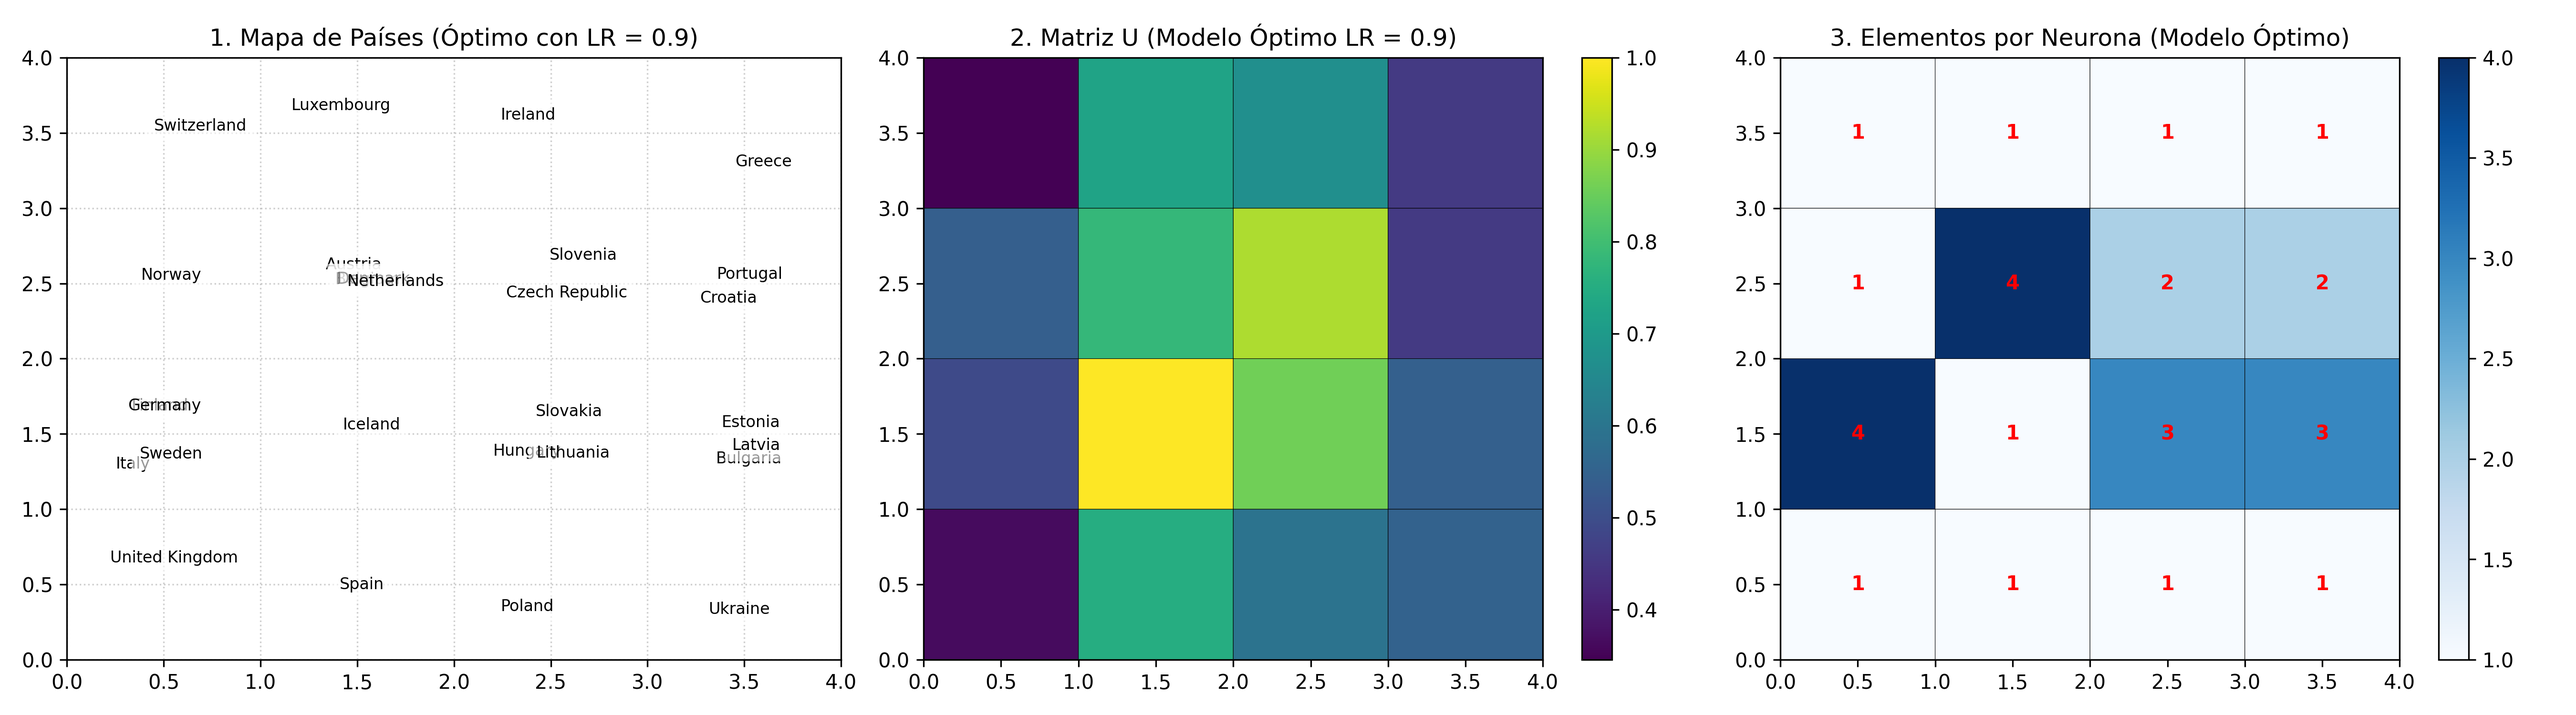
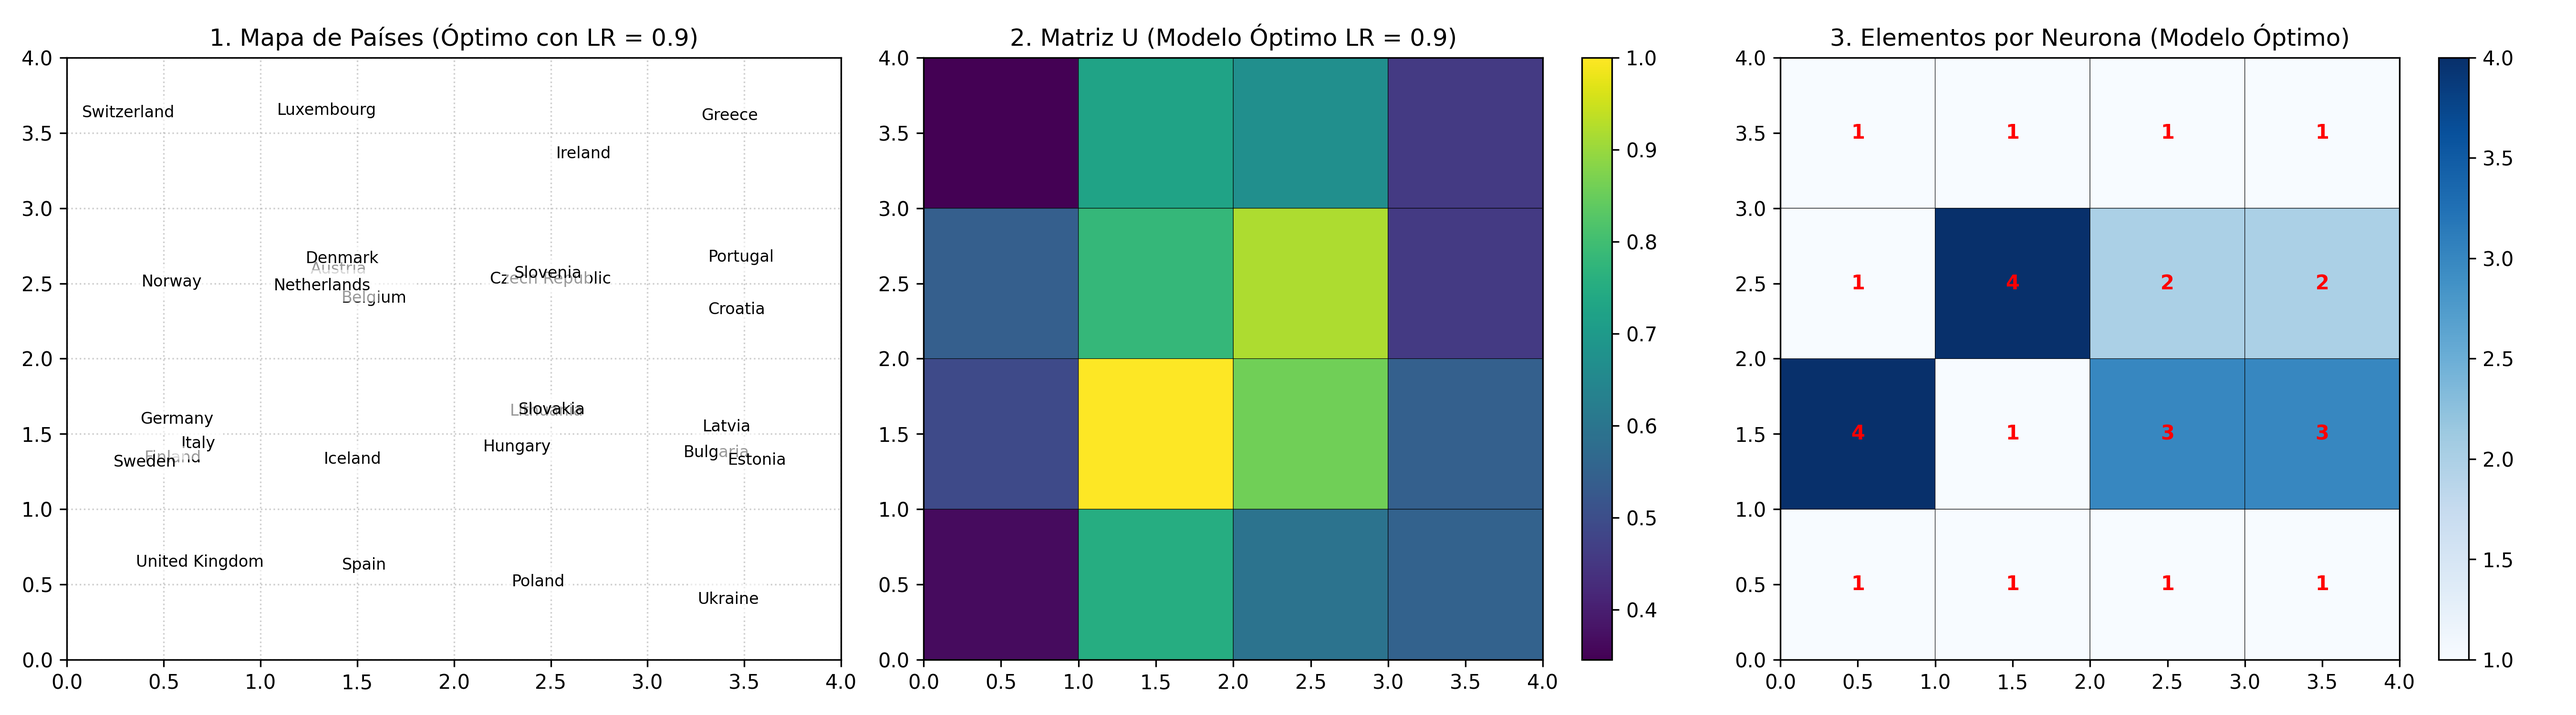
LR gra[hs added

diff --git a/kohonen/kohonen.py b/kohonen/kohonen.py
@@ -23,7 +23,6 @@ num_paises = len(data_scaled)
 # ==========================================
 # 2. Configuración Fija y Grid Search de LR
 # ==========================================
-# Fijamos las dimensiones óptimas que elegiste para clustering real
 ROWS, COLS = 4, 4 
 SIGMA_FIJO = 1.0
 ITERACIONES_FIJAS = 2000
@@ -37,7 +36,7 @@ modelos_entrenados = {}
 print(f"Iniciando Grid Search sobre {len(learning_rates)} tasas de aprendizaje distintas (Grilla {ROWS}x{ROWS})...\n")
 
 # ==========================================
-# 3. Bucle de Evaluación Automatizada
+# 3. Bucle de Evaluación Automatizada y Guardado de Gráficos
 # ==========================================
 for lr in learning_rates:
     lr_round = round(lr, 1)
@@ -69,11 +68,47 @@ for lr in learning_rates:
     
     modelos_entrenados[nombre_escenario] = (som, hit_map)
 
+    # --- NUEVO: Generación y guardado del gráfico para CADA Learning Rate ---
+    fig = plt.figure(figsize=(18, 5.5))
+    fig.suptitle(f"Evaluación SOM | Grilla: {ROWS}x{COLS} | Sigma: {SIGMA_FIJO} | Learning Rate (LR): {lr_round} | Iteraciones: {ITERACIONES_FIJAS}", fontsize=14, fontweight='bold')
+
+    # 1. Mapa de Países
+    ax1 = fig.add_subplot(1, 3, 1)
+    ax1.set_title("1. Mapa de Países")
+    ax1.pcolor(np.zeros((ROWS, COLS)), cmap='Greys', edgecolors='k', alpha=0) 
+    for i, x in enumerate(data_scaled):
+        w = som.winner(x)
+        ax1.text(w[0] + 0.5 + np.random.uniform(-0.2, 0.2), w[1] + 0.5 + np.random.uniform(-0.2, 0.2), 
+                 countries[i], ha='center', va='center', fontsize=8, bbox=dict(facecolor='white', alpha=0.6, lw=0))
+    ax1.set_xlim([0, ROWS]); ax1.set_ylim([0, COLS])
+    ax1.grid(True, linestyle=':', alpha=0.6)
+
+    # 2. Matriz U
+    ax2 = fig.add_subplot(1, 3, 2)
+    ax2.set_title("2. Matriz U (Distancias)")
+    cax = ax2.pcolor(som.distance_map().T, cmap='viridis', edgecolors='k') 
+    fig.colorbar(cax, ax=ax2)
+
+    # 3. Hits
+    ax3 = fig.add_subplot(1, 3, 3)
+    ax3.set_title("3. Elementos por Neurona")
+    cax3 = ax3.pcolor(hit_map.T, cmap='Blues', edgecolors='k')
+    fig.colorbar(cax3, ax=ax3)
+    for i in range(ROWS):
+        for j in range(COLS):
+            if hit_map[i, j] > 0:
+                ax3.text(i + 0.5, j + 0.5, str(int(hit_map[i, j])), ha='center', va='center', color='red', fontweight='bold')
+
+    plt.tight_layout(rect=[0, 0.03, 1, 0.95])
+    plt.savefig(f"Comparativa_LR_{lr_round}.png", dpi=300)
+    plt.close(fig)
+    print(f" -> Guardado: Comparativa_LR_{lr_round}.png")
+
 # ==========================================
 # 4. Cuadro Comparativo en Consola
 # ==========================================
 df_comparativo = pd.DataFrame(resultados)
-print("="*85)
+print("\n" + "="*85)
 print("                    RESULTADOS DE LA EVALUACIÓN DE LEARNING RATES")
 print("="*85)
 print(df_comparativo.to_string(index=False))
@@ -82,7 +117,6 @@ print("="*85 + "\n")
 # ==========================================
 # 5. Selección Automatizada del LR Óptimo
 # ==========================================
-# Tu criterio: Primero menor cantidad de neuronas muertas. Desempate por menor QE.
 ganador_df = df_comparativo.sort_values(by=["Neuronas Muertas", "Error Cuantización (QE)"]).iloc[0]
 mejor_escenario_nombre = ganador_df["Escenario"]
 lr_optimo = ganador_df["Learning Rate"]
@@ -105,12 +139,11 @@ print(f" Error Topológico (TE):      {ganador_df['Error Topológico (TE)']}")
 print("="*50 + "\n")
 
 # ==========================================
-# 6. Gráfico Final del Modelo Óptimo Elegido
+# 6. Gráfico Final del Modelo Óptimo Elegido (Duplicado con nombre final)
 # ==========================================
 som_opt, hit_map_opt = modelos_entrenados[mejor_escenario_nombre]
 fig_opt = plt.figure(figsize=(18, 5))
 
-# 1. Mapa de Países Óptimo
 ax1_opt = fig_opt.add_subplot(1, 3, 1)
 ax1_opt.set_title(f"1. Mapa de Países (Óptimo con LR = {lr_optimo})")
 ax1_opt.pcolor(np.zeros((ROWS, COLS)), cmap='Greys', edgecolors='k', alpha=0) 
@@ -121,13 +154,11 @@ for i, x in enumerate(data_scaled):
 ax1_opt.set_xlim([0, ROWS]); ax1_opt.set_ylim([0, COLS])
 ax1_opt.grid(True, linestyle=':', alpha=0.6)
 
-# 2. Matriz U Óptima
 ax2_opt = fig_opt.add_subplot(1, 3, 2)
 ax2_opt.set_title(f"2. Matriz U (Modelo Óptimo LR = {lr_optimo})")
 cax_opt = ax2_opt.pcolor(som_opt.distance_map().T, cmap='viridis', edgecolors='k') 
 fig_opt.colorbar(cax_opt, ax=ax2_opt)
 
-# 3. Hits Óptimos
 ax3_opt = fig_opt.add_subplot(1, 3, 3)
 ax3_opt.set_title("3. Elementos por Neurona (Modelo Óptimo)")
 cax3_opt = ax3_opt.pcolor(hit_map_opt.T, cmap='Blues', edgecolors='k')
